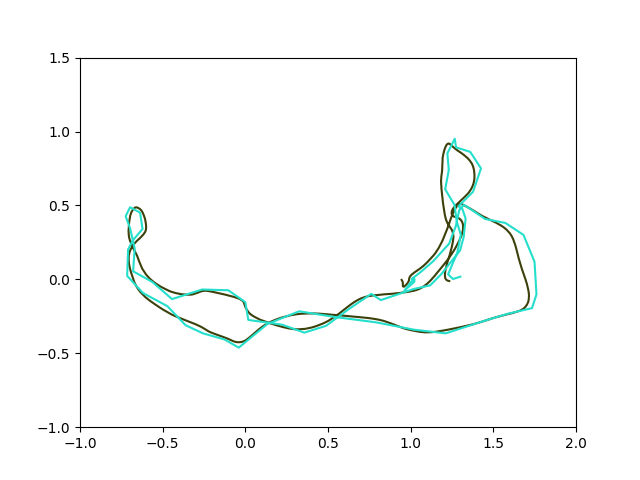
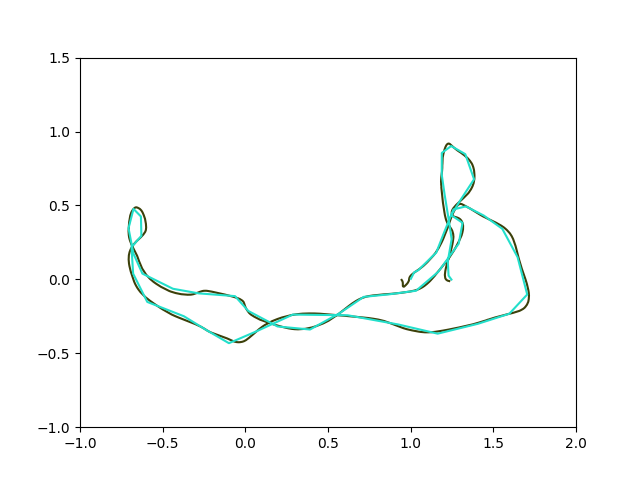
Part 2

diff --git a/common/handler.py b/common/handler.py
@@ -155,7 +155,7 @@ def showMap(lcs, isfr=False):
 
     # mxs, mzs, rmse = genMap(txs, tzs, skip=6, a=0.7, scale=1.2)
 
-    mxs, mzs, rmse = genMap(txs, tzs, skip=60, a=0.7, scale=1.03)
+    mxs, mzs, rmse = genMap(txs, tzs, skip=40, a=0.4, scale=1.05)
     
     # plt.plot(txs, tzs, color=black)
     # plt.plot(mxs, mzs, color=red)
@@ -179,19 +179,21 @@ def showMap(lcs, isfr=False):
 
 
     timestep = int((30.9/len(txs))*1000)
-    skip = 2
+    skip = 1
     for i in range(len(txs)//skip):
         plt.clf()
-        plt.xlim([-4, 2.5])
-        plt.ylim([-3, 3.5])
+        plt.xlim([-1, 2])
+        plt.ylim([-1, 1.5])
         xs = np.array(mxs[:(i*skip)])
         ys = np.array(mzs[:(i*skip)])
         plt.plot(txs, tzs, color=black)
         if (i*skip) > lcs[0][1]:
-            fxs = xs/1.03
-            fys = ys/1.03
-            fys += 0.2
-            fys[:5] -= 0.1
+            fxs = xs
+            fys = ys
+            fxs = xs/1.05
+            fys = ys/1.05
+            fxs -= 0.01
+            fxs[:8] += 0.08
             plt.plot(fxs[:-2], fys[:-2], color=red)
             # plt.plot(txs[lcs[1][0]], tzs[lcs[1][0]], marker='o', color=green, linewidth=3.0, linestyle='')
         else:
@@ -211,7 +213,7 @@ def showMap(lcs, isfr=False):
         img = cv2.bitwise_not(img)
         cv2.imshow(name, img)
         if (i*skip) == lcs[0][1] or ((i-1)*skip) == lcs[0][1]:
-            out = cv2.waitKey(timestep*150)
+            out = cv2.waitKey(timestep*50)
         else:
             out = cv2.waitKey(timestep)
         if (out & 0xFF) == ord('s'):
@@ -232,11 +234,11 @@ def genMap(txs, tzs, skip, a, scale):
         x = txs[i]*scale
         y = tzs[i]*scale
         r = random.random()
-        xo = 0
-        yo = -0.1
+        xo = -0.07
+        yo = 0
         if j > (300//skip):
-            xo = 0
-            yo = -0.2
+            xo = 0.01
+            yo = 0
         
         xoff = a*xc*(r-0.5)+xo
         yoff = a*yc*(r-0.5)+yo

diff --git a/common/map.py b/common/map.py
@@ -2,10 +2,10 @@ import handler
 
 if __name__ == "__main__":
     # folder = '/root/KITTI_06' #00 02 05 06 07 09
-    folder = '/root/MONO_LONG'
+    folder = '/root/MONO_DESK'
     handler.readFolder(folder)
     # lcc = [(26,857), (171, 997)]
-    lcc = [(8,130)]
+    lcc = [(14,51)]
     handler.showMap(lcc, isfr=True)
     # handler.showLoopClosurePairs(lcc)
 
